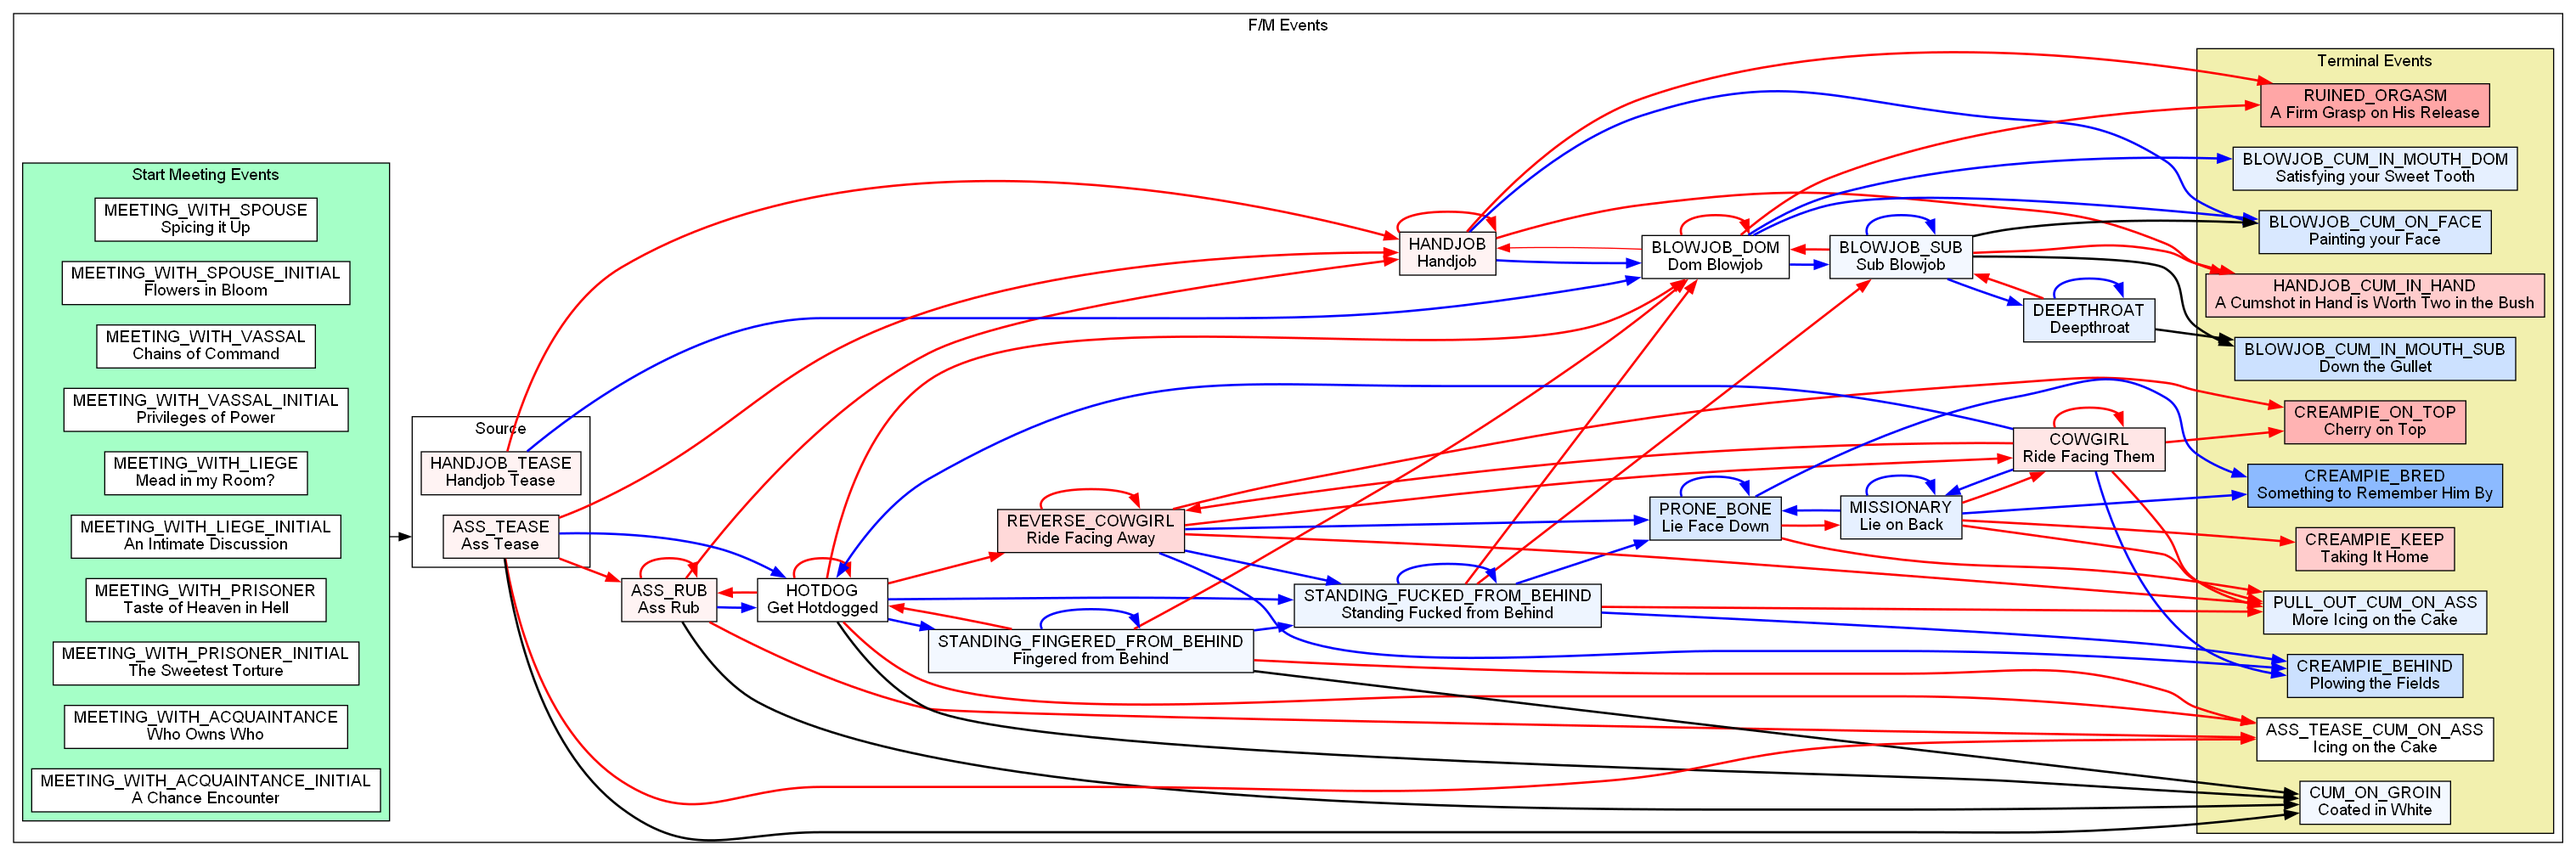
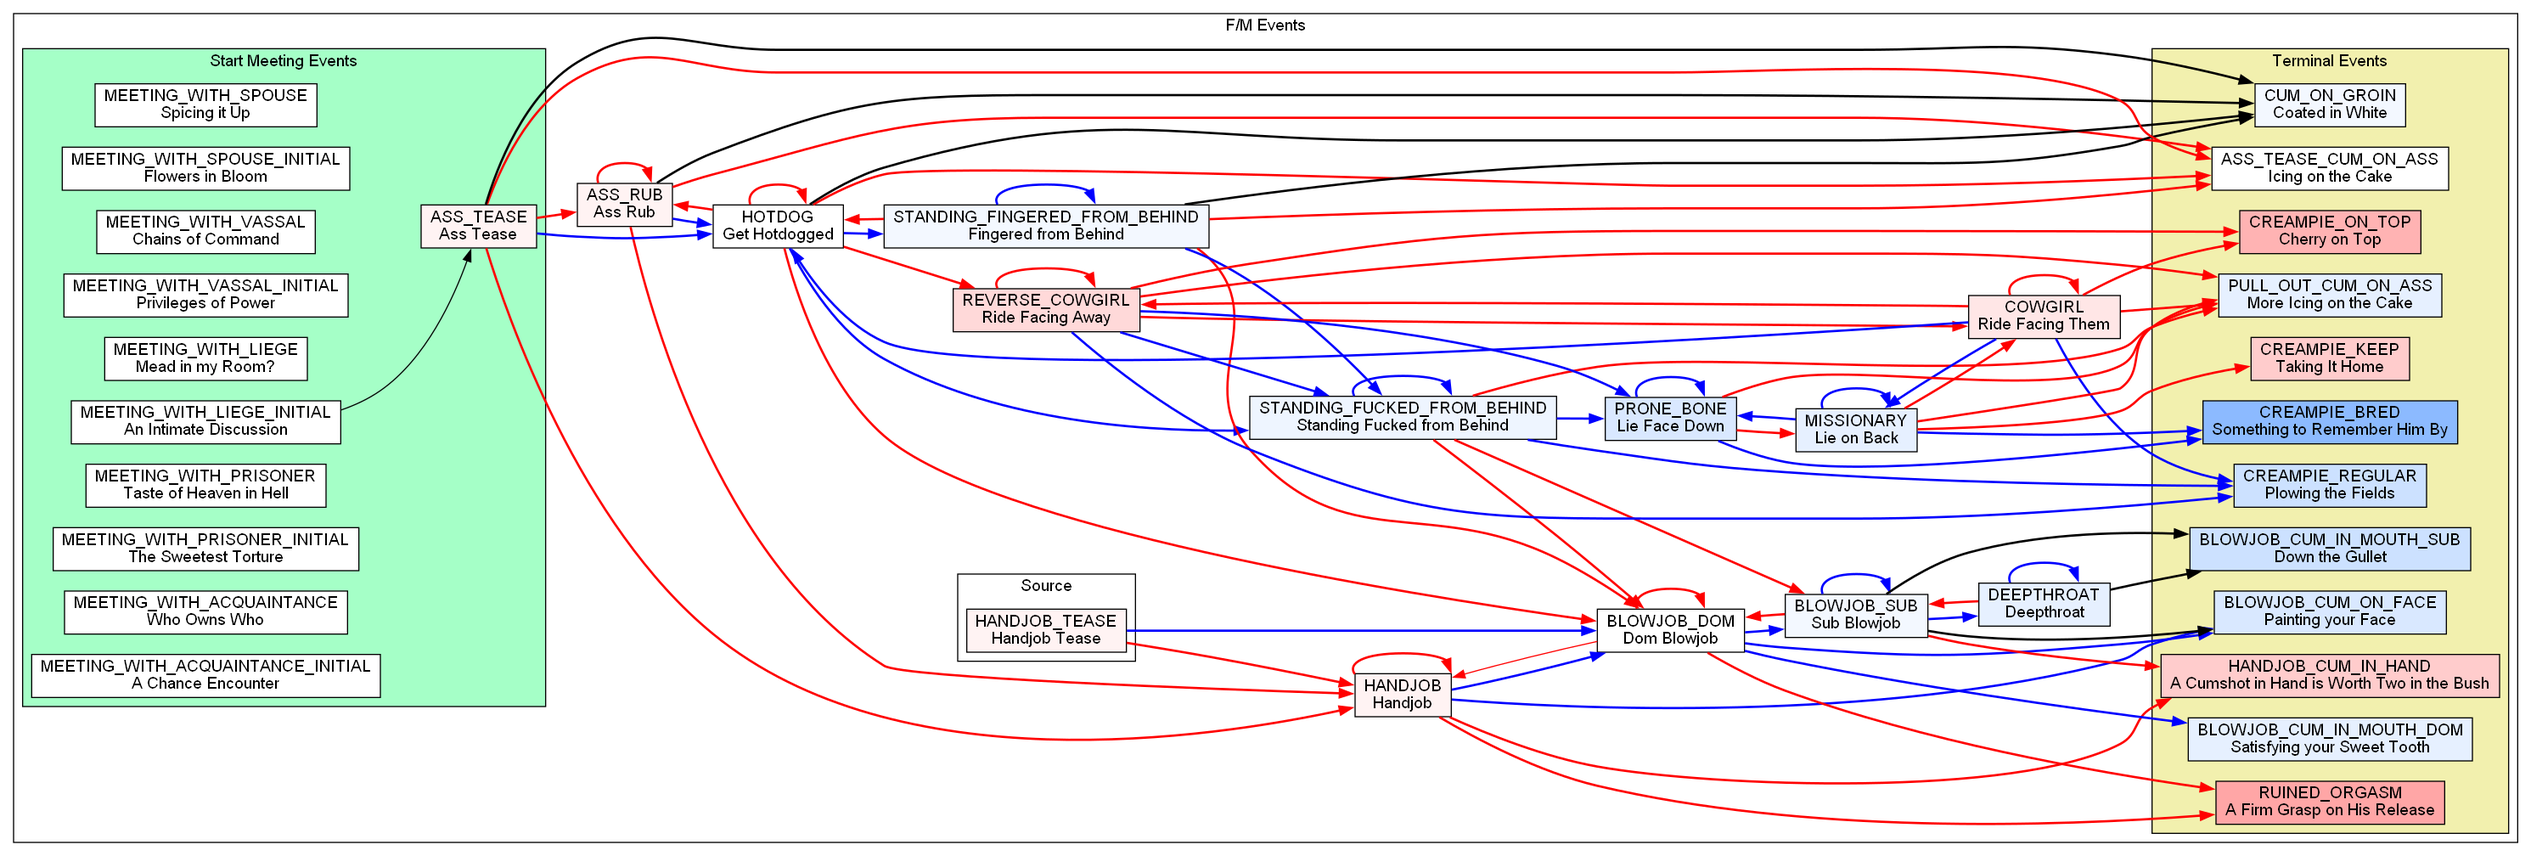
more text updates yay

diff --git a/generate_events.py b/generate_events.py
@@ -47,7 +47,7 @@ class EventsCum(enum.Enum):
     ASS_TEASE_CUM_ON_ASS = 5
     CUM_ON_GROIN = 12
     PULL_OUT_CUM_ON_ASS = 7
-    CREAMPIE_BEHIND = 8
+    CREAMPIE_REGULAR = 8
     CREAMPIE_ON_TOP = 9
     CREAMPIE_BRED = 10
     CREAMPIE_KEEP = 11
@@ -1821,7 +1821,7 @@ def define_sex_events(es: EventMap):
                           "Pull it out, {THEM}!", you just manage to say between his thrusts and groans.""",
                           failed_transition_text=f"""
                           "Pull it out, {THEM}!", you just manage to say between his thrusts and groans, but your pleas falls on deaf ears."""),
-                   Option(EventsCum.CREAMPIE_BEHIND, OptionCategory.SUB,
+                   Option(EventsCum.CREAMPIE_REGULAR, OptionCategory.SUB,
                           "Let him fill you with his seed",
                           transition_text=f"""
                           Feeling little resistance, he prepares to leave you a hot, sticky gift."""),
@@ -1874,7 +1874,7 @@ def define_sex_events(es: EventMap):
                           Your body tightens as he begins to twitch inside you.""",
                           failed_transition_text=f"""
                           Your body tightens as he begins to twitch inside you, but you lose control as he grabs your hips and pulls himself deeper in."""),
-                   Option(EventsCum.CREAMPIE_BEHIND, OptionCategory.SUB,
+                   Option(EventsCum.CREAMPIE_REGULAR, OptionCategory.SUB,
                           "Let him fill you with his seed",
                           transition_text=f"""
                           Feeling little resistance, he prepares to leave you a hot, sticky gift."""),
@@ -1927,7 +1927,7 @@ def define_sex_events(es: EventMap):
                           Your body tightens as he begins to twitch inside you.""",
                           failed_transition_text=f"""
                           Your body tightens as he begins to twitch inside you, but you lose control as he grabs your hips and pulls himself deeper in."""),
-                   Option(EventsCum.CREAMPIE_BEHIND, OptionCategory.SUB,
+                   Option(EventsCum.CREAMPIE_REGULAR, OptionCategory.SUB,
                           "Let him fill you with his seed",
                           transition_text=f"""
                           Feeling little resistance, he prepares to leave you a hot, sticky gift."""),
@@ -2059,12 +2059,19 @@ def define_cum_events(es: EventMap):
                terminal_option=Option(None, OptionCategory.OTHER, "Clean your hands on a nearby cloth"),
                animation_left=BOREDOM, animation_right=SHAME,
                desc=ComposedDesc("""
-               His back arches, thrusting forward into an imaginary womb, and spurts his load onto your open palm.
+               His back arches, instinctively thrusting forward to fill an imaginary womb as he spurts his load onto your open palm.
                \\n\\n""",
-                                 TriggeredDesc(f"{SCOPE}:{SUBDOM} > 10", """
+                                 TriggeredDesc(f"{SCOPE}:{SUBDOM} >= 10", """
                "That's it?" you say as you wipe his seed onto his chest, "How do you hope to please any
                woman with that pathetic stamina?" His #dom dejected look 
                pleases#! you #italic - maybe your personality is twisted?#!
+               """),
+                                 TriggeredDesc(f"{SCOPE}:{SUBDOM} > -10 \n{SCOPE}:{SUBDOM} < 10", f"""
+               "Not bad, {THEM}!", you say while taking note of his #!italic potential#! for any possible future encounters.
+               """),
+                                 TriggeredDesc(f"{SCOPE}:{SUBDOM} <= -10", """
+               "Impressive!", you say as you suck one of your fingers clean, "Maybe use that #sub intensity#! for
+                #!italic something else#! next time?"
                """),
                                  )))
     es.add(Cum(EventsCum.ASS_TEASE_CUM_ON_ASS, "Icing on the Cake",
@@ -2196,23 +2203,37 @@ def define_cum_events(es: EventMap):
                animation_left=DISMISSAL, animation_right=PERSONALITY_BOLD,
                terminal_option=Option(None, OptionCategory.OTHER, "Clean up the white coating on your groin"),
                desc=ComposedDesc(f"""
-               {THEM} stops his cock mere inches from your groin, coating your hips and holes with a thick layer of white. 
+               {THEM} stops himself mere inches from your groin, coating your hips and holes with a thick layer of white. 
                \\n\\n
-               Your can feel his cum #sub on#! you.""",
-                                 TriggeredDesc(f"{HAS_TRAIT} = {LIDA_SUB}", """
-                If only he'd done #sub more#! to you!"""),
+               Your can feel his warmth #sub on#! you.""",
                                  TriggeredDesc(f"{HAS_TRAIT} = {LIDA_DOM}", """
-                How #dom dare#! he make such a mess!""")
+                #italic Yes, it is - their #dom petty#! desires don't deserve your atention.#!"""),
+                                 TriggeredDesc(f"{HAS_TRAIT} = {LIDA_SUB}", """
+                #italic Maybe they wouldn't if he'd taken some #sub initiative#! instead of being satisfied with this.#!"""),
+                                 TriggeredDesc(f"{SCOPE}:{SUBDOM} >= 10", f"""
+               \\n\\n"Pardon me, {ME_FULL_REGNAL}!", {THEM} says while devotedly cleaning you up.
+               """),
+                                 TriggeredDesc(f"{SCOPE}:{SUBDOM} > -10 \n{SCOPE}:{SUBDOM} < 10", f"""
+               \\n\\n"This was fun", {THEM} says as he runs his hand across your shapes before dressing.
+               """),
+                                 TriggeredDesc(f"{SCOPE}:{SUBDOM} <= -10", f"""
+               \\n\\n"Let's do more next time", {THEM} says as you feel a sudden #sub smack on your ass#!. 
+               """),
+                                 TriggeredDesc(f"{HAS_TRAIT} = {LIDA_DOM}", """
+                Ugh, that fool made #dom such#! a mess!"""),
+                                 TriggeredDesc(f"{HAS_TRAIT} = {LIDA_SUB}", """
+                If only he'd done #sub more#! to you!"""), 
                                  ),
                ))
-    es.add(Cum(EventsCum.CREAMPIE_BEHIND, "Plowing the Fields",
+    es.add(Cum(EventsCum.CREAMPIE_REGULAR, "Plowing the Fields",
                subdom_change=-3,
                root_become_more_sub_chance=20,
                preg_chance_1=PREGNANCY_CHANCE,
                animation_left=WORRY, animation_right=PERSONALITY_BOLD,
                terminal_option=Option(None, OptionCategory.OTHER, "Wipe away the cum dripping down your thighs"),
                desc=ComposedDesc(f"""
-               "Ugh," {THEM} grunts as he plunges to the hilt while pulling you back by your arms, his rod violently throbbing inside you. """,
+               "Ugh," {THEM} grunts as he plunges to the hilt, his rod violently throbbing inside you.
+                A white contour gathers on your lips as his load flows out.""",
                                  TriggeredDesc(f"{SCOPE}:{SUBDOM} >= 10", """
                "I-I don't know what came over me!" he says, avoiding your gaze with a look of deep shame across his face.
                """),
@@ -2227,7 +2248,7 @@ def define_cum_events(es: EventMap):
                Your body brimming with anticipation as you softly say: "Y-you can do it again if you want". You #bold #sub want#!#! him to do it again, \\n"""),
                                  TriggeredDesc(f"{HAS_TRAIT} = {LIDA_DOM}", """
                Is the #dom privilege#! of experiencing your body not enough?! How #dom dare#! he release inside you whenever he wishes
-                like in some #italic random peasant girl?!#!"""),
+                like in some #italic random peasant maid?!#!"""),
                                  ),
                ))
     es.add(Cum(EventsCum.CREAMPIE_ON_TOP, "Cherry on Top",
